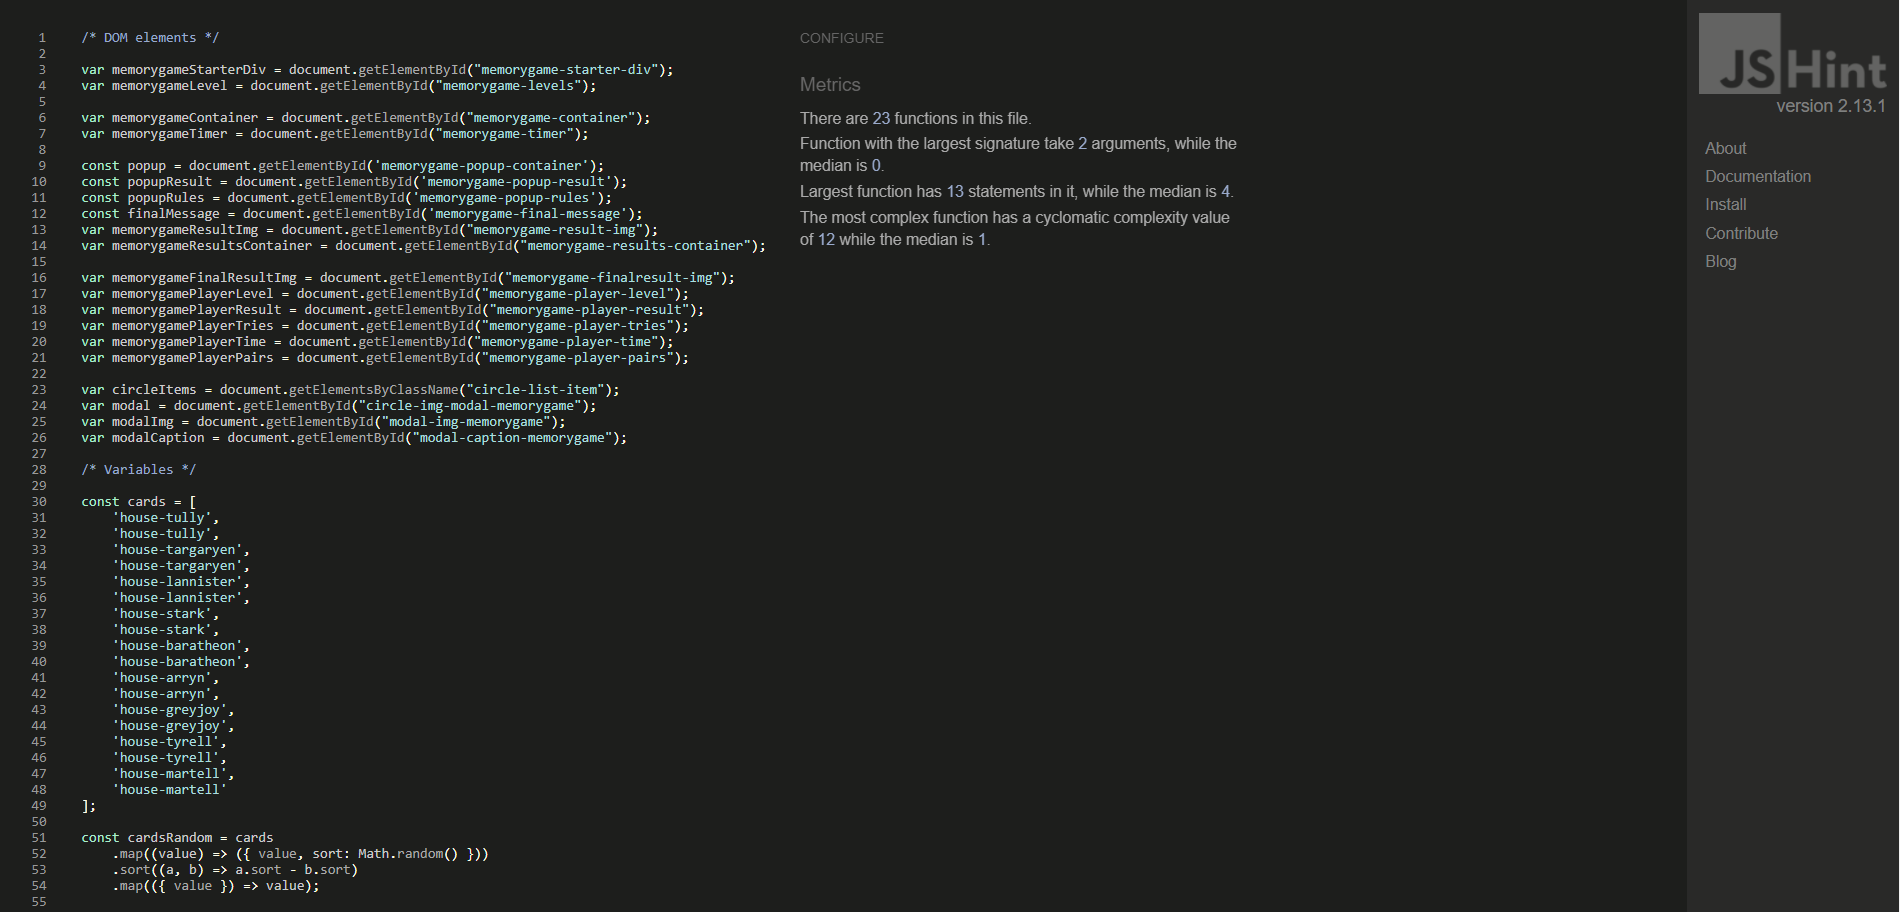
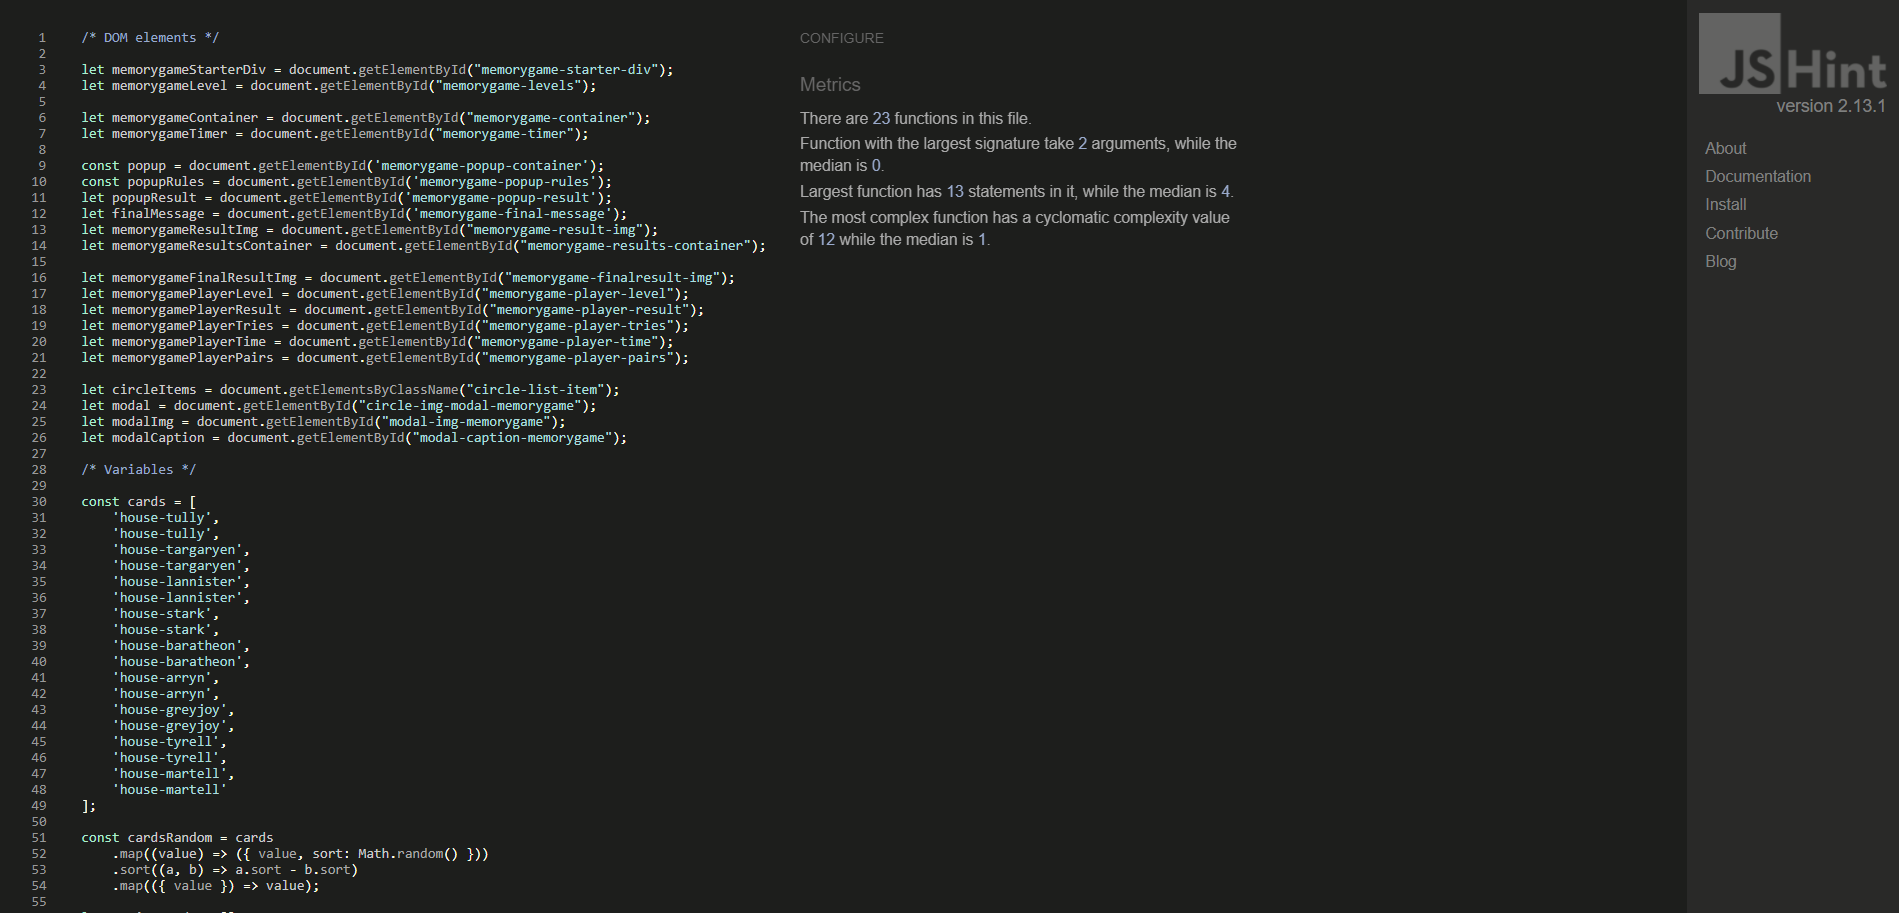
Minor update of JS files + Upload new JSHint results
Update of some variable types of JS files, and thus revalidation with JS Hint (update visual backup)

diff --git a/js/sorting.js b/js/sorting.js
@@ -1,33 +1,33 @@
 /* DOM elements */
 
-var sortingContainer = document.getElementById("sorting-container");
-var sortingResultsContainer = document.getElementById("sorting-results-container");
+let sortingContainer = document.getElementById("sorting-container");
+let sortingResultsContainer = document.getElementById("sorting-results-container");
 
-var sortingCheckboxes = document.getElementsByClassName("quiz-cb");
+let sortingCheckboxes = document.getElementsByClassName("quiz-cb");
 
-var sortingQuestion = document.getElementById("sorting-question");
-var sortingAnswer1 = document.getElementById("sorting-answer-label-1");
-var sortingAnswer2 = document.getElementById("sorting-answer-label-2");
-var sortingAnswer3 = document.getElementById("sorting-answer-label-3");
-var sortingNextQuestionBtn = document.getElementById("sorting-next-btn");
-var sortingEndBtn = document.getElementById("sorting-end-btn");
+let sortingQuestion = document.getElementById("sorting-question");
+let sortingAnswer1 = document.getElementById("sorting-answer-label-1");
+let sortingAnswer2 = document.getElementById("sorting-answer-label-2");
+let sortingAnswer3 = document.getElementById("sorting-answer-label-3");
+let sortingNextQuestionBtn = document.getElementById("sorting-next-btn");
+let sortingEndBtn = document.getElementById("sorting-end-btn");
 
-var sortingResultsImgs = document.getElementById("final-houses");
-var sortingResultsTxt = document.getElementById("final-houses-txt");
-var sortingResult = document.getElementById("sorting-player-result");
-var sortingResultPercent = document.getElementById("sorting-result-percentage");
+let sortingResultsImgs = document.getElementById("final-houses");
+let sortingResultsTxt = document.getElementById("final-houses-txt");
+let sortingResult = document.getElementById("sorting-player-result");
+let sortingResultPercent = document.getElementById("sorting-result-percentage");
 
-var circleItems = document.getElementsByClassName("circle-list-item");
-var modal = document.getElementById("circle-img-modal-sorting");
-var modalImg = document.getElementById("modal-img-sorting");
-var modalCaption = document.getElementById("modal-caption-sorting");
-var modalCaptionPercent = document.getElementById("caption-percentage-sorting");
+let circleItems = document.getElementsByClassName("circle-list-item");
+let modal = document.getElementById("circle-img-modal-sorting");
+let modalImg = document.getElementById("modal-img-sorting");
+let modalCaption = document.getElementById("modal-caption-sorting");
+let modalCaptionPercent = document.getElementById("caption-percentage-sorting");
 
 /* Variables */
 
 let questions = [];
-var questionIndex = 0;
-var selectedAnswer;
+let questionIndex = 0;
+let selectedAnswer;
 let playerHouses = [];
 let countPlayerHouses = [];
 let playerFinalHouses = [];
@@ -176,7 +176,7 @@ $('.circle-list-item').click(function () {
                     modalCaption.innerHTML = houses[i];
                 }
             }
-            let houseCount = countPlayerHouses.find(h => h.house === id.split("-")[1]);
+            var houseCount = countPlayerHouses.find(h => h.house === id.split("-")[1]);
             var percent = parseFloat(((parseInt(houseCount.count) / questions.length) * 100)).toFixed(2);
             modalCaptionPercent.innerHTML = percent + "% (" + houseCount.count + " / " + questions.length + ")";
         });
@@ -257,7 +257,7 @@ function showFinalHouses() {
             sortingResult.innerHTML += " & ";
         }
 
-        let houseCount = countPlayerHouses.find(h => h.house === playerFinalHouses[i]);
+        var houseCount = countPlayerHouses.find(h => h.house === playerFinalHouses[i]);
         var percent = parseFloat(((parseInt(houseCount.count) / questions.length) * 100)).toFixed(2);
 
         if (i == 0) {

diff --git a/js/memorygame.js b/js/memorygame.js
@@ -1,29 +1,29 @@
 /* DOM elements */
 
-var memorygameStarterDiv = document.getElementById("memorygame-starter-div");
-var memorygameLevel = document.getElementById("memorygame-levels");
+let memorygameStarterDiv = document.getElementById("memorygame-starter-div");
+let memorygameLevel = document.getElementById("memorygame-levels");
 
-var memorygameContainer = document.getElementById("memorygame-container");
-var memorygameTimer = document.getElementById("memorygame-timer");
+let memorygameContainer = document.getElementById("memorygame-container");
+let memorygameTimer = document.getElementById("memorygame-timer");
 
 const popup = document.getElementById('memorygame-popup-container');
-const popupResult = document.getElementById('memorygame-popup-result');
 const popupRules = document.getElementById('memorygame-popup-rules');
-const finalMessage = document.getElementById('memorygame-final-message');
-var memorygameResultImg = document.getElementById("memorygame-result-img");
-var memorygameResultsContainer = document.getElementById("memorygame-results-container");
+let popupResult = document.getElementById('memorygame-popup-result');
+let finalMessage = document.getElementById('memorygame-final-message');
+let memorygameResultImg = document.getElementById("memorygame-result-img");
+let memorygameResultsContainer = document.getElementById("memorygame-results-container");
 
-var memorygameFinalResultImg = document.getElementById("memorygame-finalresult-img");
-var memorygamePlayerLevel = document.getElementById("memorygame-player-level");
-var memorygamePlayerResult = document.getElementById("memorygame-player-result");
-var memorygamePlayerTries = document.getElementById("memorygame-player-tries");
-var memorygamePlayerTime = document.getElementById("memorygame-player-time");
-var memorygamePlayerPairs = document.getElementById("memorygame-player-pairs");
+let memorygameFinalResultImg = document.getElementById("memorygame-finalresult-img");
+let memorygamePlayerLevel = document.getElementById("memorygame-player-level");
+let memorygamePlayerResult = document.getElementById("memorygame-player-result");
+let memorygamePlayerTries = document.getElementById("memorygame-player-tries");
+let memorygamePlayerTime = document.getElementById("memorygame-player-time");
+let memorygamePlayerPairs = document.getElementById("memorygame-player-pairs");
 
-var circleItems = document.getElementsByClassName("circle-list-item");
-var modal = document.getElementById("circle-img-modal-memorygame");
-var modalImg = document.getElementById("modal-img-memorygame");
-var modalCaption = document.getElementById("modal-caption-memorygame");
+let circleItems = document.getElementsByClassName("circle-list-item");
+let modal = document.getElementById("circle-img-modal-memorygame");
+let modalImg = document.getElementById("modal-img-memorygame");
+let modalCaption = document.getElementById("modal-caption-memorygame");
 
 /* Variables */
 
@@ -53,15 +53,15 @@ const cardsRandom = cards
     .sort((a, b) => a.sort - b.sort)
     .map(({ value }) => value);
 
-const activeCards = [];
+let activeCards = [];
 
-var level;
-var countdown;
-var timer;
-var playerTries = 0;
-var playTime;
-var foundPairs = 0;
-var winner;
+let level;
+let countdown;
+let timer;
+let playerTries = 0;
+let playTime;
+let foundPairs = 0;
+let winner;
 
 /* jQuery */
 

diff --git a/js/quiz.js b/js/quiz.js
@@ -1,35 +1,35 @@
 /* DOM elements */
 
-var quizStarterDiv = document.getElementById("quiz-starter-div");
-var quizContainer = document.getElementById("quiz-container");
-var quizResultsContainer = document.getElementById("quiz-results-container");
+let quizStarterDiv = document.getElementById("quiz-starter-div");
+let quizContainer = document.getElementById("quiz-container");
+let quizResultsContainer = document.getElementById("quiz-results-container");
 
-var quizCheckboxes = document.getElementsByClassName("quiz-cb");
-var quizAnswers = document.getElementsByClassName("answer-label");
+let quizCheckboxes = document.getElementsByClassName("quiz-cb");
+let quizAnswers = document.getElementsByClassName("answer-label");
 
-var quizQuestion = document.getElementById("quiz-question");
-var quizAnswer1 = document.getElementById("answer-label-1");
-var quizAnswer2 = document.getElementById("answer-label-2");
-var quizAnswer3 = document.getElementById("answer-label-3");
-var quizAnswer4 = document.getElementById("answer-label-4");
+let quizQuestion = document.getElementById("quiz-question");
+let quizAnswer1 = document.getElementById("answer-label-1");
+let quizAnswer2 = document.getElementById("answer-label-2");
+let quizAnswer3 = document.getElementById("answer-label-3");
+let quizAnswer4 = document.getElementById("answer-label-4");
 
-var quizCheckAnswerBtn = document.getElementById("check-answer-btn");
-var quizNextQuestionBtn = document.getElementById("next-question-btn");
-var quizEndBtn = document.getElementById("end-quiz-btn");
+let quizCheckAnswerBtn = document.getElementById("check-answer-btn");
+let quizNextQuestionBtn = document.getElementById("next-question-btn");
+let quizEndBtn = document.getElementById("end-quiz-btn");
 
-var quizResult = document.getElementById("quiz-player-result");
-var quizResultComment = document.getElementById("quiz-result-comment");
-var quizQuestionsTotal = document.getElementById("quiz-questions-total");
-var quizQuestionsCorrect = document.getElementById("quiz-questions-correct");
-var quizQuestionsIncorrect = document.getElementById("quiz-questions-incorrect");
+let quizResult = document.getElementById("quiz-player-result");
+let quizResultComment = document.getElementById("quiz-result-comment");
+let quizQuestionsTotal = document.getElementById("quiz-questions-total");
+let quizQuestionsCorrect = document.getElementById("quiz-questions-correct");
+let quizQuestionsIncorrect = document.getElementById("quiz-questions-incorrect");
 
 /* Variables */
 
 let quizName;
 let questions = [];
-var questionIndex = 0;
-var selectedAnswer;
-var correctAnswers = 0;
+let questionIndex = 0;
+let selectedAnswer;
+let correctAnswers = 0;
 
 /* jQuery */
 
@@ -153,7 +153,6 @@ $('#quiz-othergame-btn').click(function () {
 /* Handling quiz start (Show Player Layout + Read in questions from txt + Set first question) */
 function startQuiz(name) {
     quizName = name;
-
     quizStarterDiv.classList.add("hidden");
     quizContainer.classList.remove("hidden");
 

diff --git a/js/hangman.js b/js/hangman.js
@@ -2,21 +2,21 @@
 
 /* DOM elements */
 
-var hangmanStarterDiv = document.getElementById("hangman-starter-div");
-var hangmanGameContainer = document.getElementById("hangman-game-container");
+let hangmanStarterDiv = document.getElementById("hangman-starter-div");
+let hangmanGameContainer = document.getElementById("hangman-game-container");
 
-var word = document.getElementById("hangman-word");
-var hangmanImg = document.getElementById("hangman-img");
-var wrongLettersP = document.getElementById("wrong-letters");
-var playerLetterMobile = document.getElementById("hangman-game-mobile");
+let word = document.getElementById("hangman-word");
+let hangmanImg = document.getElementById("hangman-img");
+let wrongLettersP = document.getElementById("wrong-letters");
+let playerLetterMobile = document.getElementById("hangman-game-mobile");
 
 const popup = document.getElementById('hangman-popup-container');
 const popupRules = document.getElementById('hangman-popup-rules');
-const popupResult = document.getElementById('hangman-popup-result');
+let popupResult = document.getElementById('hangman-popup-result');
 
-const finalMessage = document.getElementById('hangman-final-message');
-const finalWord = document.getElementById('hangman-final-word');
-const hangmanResultImg = document.getElementById("hangman-result-img");
+let finalMessage = document.getElementById('hangman-final-message');
+let finalWord = document.getElementById('hangman-final-word');
+let hangmanResultImg = document.getElementById("hangman-result-img");
 
 /* Variables */
 
@@ -37,11 +37,10 @@ const words = [
 
 let selectedWord = words[Math.floor(Math.random() * words.length)];
 
-const correctletters = [];
-const wrongLetters = [];
-var actualLetter;
-
-var imgIndex = 0;
+let correctletters = [];
+let wrongLetters = [];
+let actualLetter;
+let imgIndex = 0;
 
 /* jQuery */
 
@@ -71,7 +70,7 @@ $('#hangman-start-btn').click(function () {
 
 /* Handling letter input (text input DOM element) by user for mobile device */
 $('#player-letter-mobile').on('input', function () {
-    const letter = $(this).val();
+    var letter = $(this).val();
     actualLetter = letter;
     checkLetter(actualLetter);
     this.value = "";
@@ -106,7 +105,7 @@ $('#hangman-exit-btn').click(function () {
 
 /* Handling letter input (pressing key down) by user for desktop */
 window.addEventListener('keydown', e => {
-    const letter = e.key;
+    var letter = e.key;
     actualLetter = letter;
     checkLetter(actualLetter);
 });
@@ -130,8 +129,8 @@ function showWord() {
             .join('')
         }`;
 
-    const innerWord = word.innerText.replace(/\n/g, '');
-    const selectedFinal = selectedWord.toLowerCase().replace(/ /g, '');
+    var innerWord = word.innerText.replace(/\n/g, '');
+    var selectedFinal = selectedWord.toLowerCase().replace(/ /g, '');
 
     if (innerWord === selectedFinal) {
         showResult("winner");
